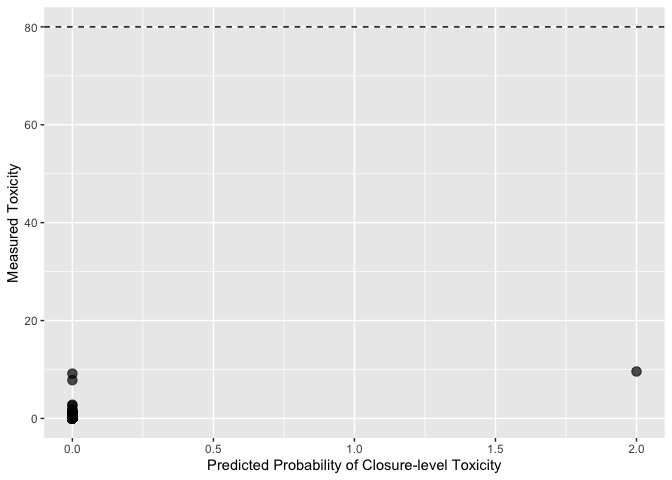
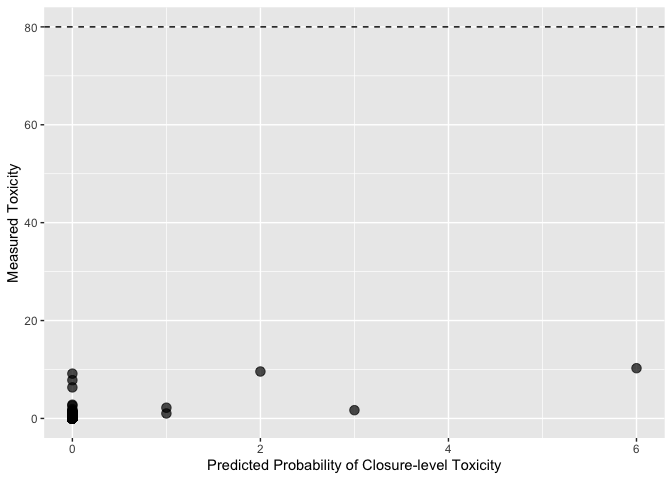
Updating README with psp forecast season results through 30 June

diff --git a/README.md b/README.md
@@ -70,7 +70,7 @@ predictions <- read_forecast(year = "2023") |>
 glimpse(predictions)
 ```
 
-    ## Rows: 281
+    ## Rows: 320
     ## Columns: 19
     ## $ version             <chr> "v0.2.0", "v0.2.0", "v0.2.0", "v0.2.0", "v0.2.0", …
     ## $ ensemble_n          <dbl> 10, 10, 10, 10, 10, 10, 10, 10, 10, 10, 10, 10, 10…
@@ -109,7 +109,7 @@ glimpse(predictions)
     ## # A tibble: 1 × 1
     ##   accuracy
     ##      <dbl>
-    ## 1        1
+    ## 1    0.996
 
 #### Closure-level (Class 3) Predictions
 
@@ -130,7 +130,7 @@ glimpse(predictions)
     ## # A tibble: 1 × 7
     ##      tp    fp    tn    fn precision sensitivity specificity
     ##   <int> <int> <int> <int>     <dbl>       <dbl>       <dbl>
-    ## 1     0     0   238     0       NaN         NaN           1
+    ## 1     0     0   271     0       NaN         NaN           1
 
 ## 2022 Season Results
 
@@ -224,4 +224,4 @@ glimpse(predictions)
 
 ### Last Updated
 
-    ## [1] "2023-06-23"
+    ## [1] "2023-06-30"
